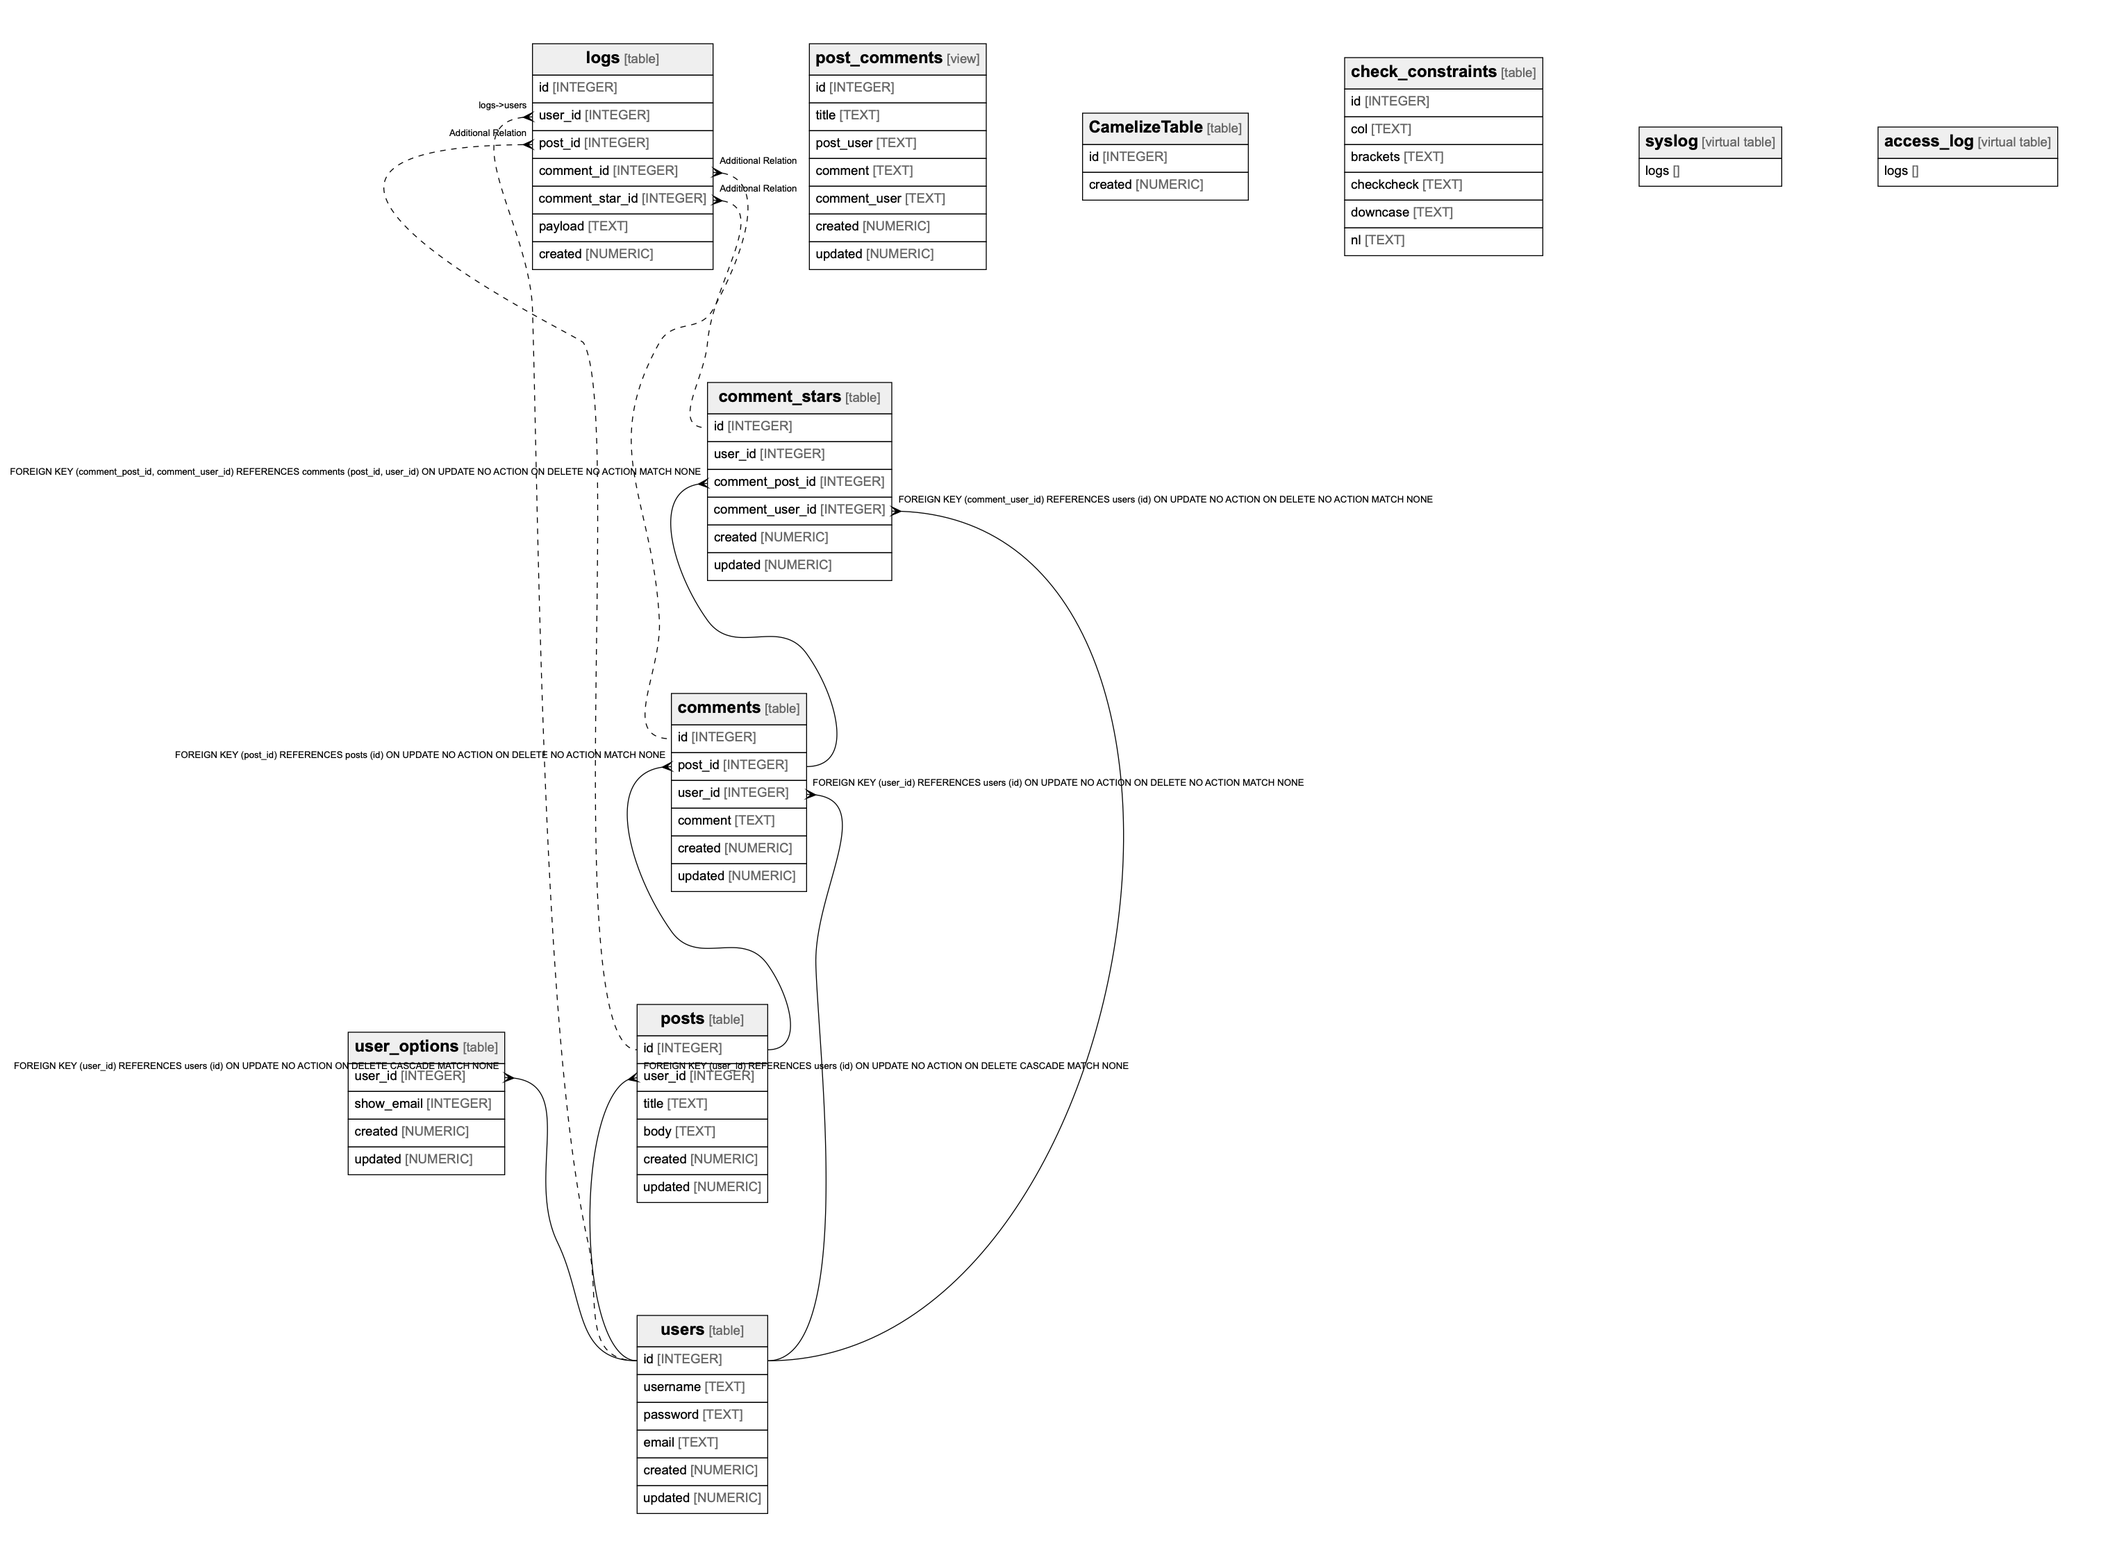
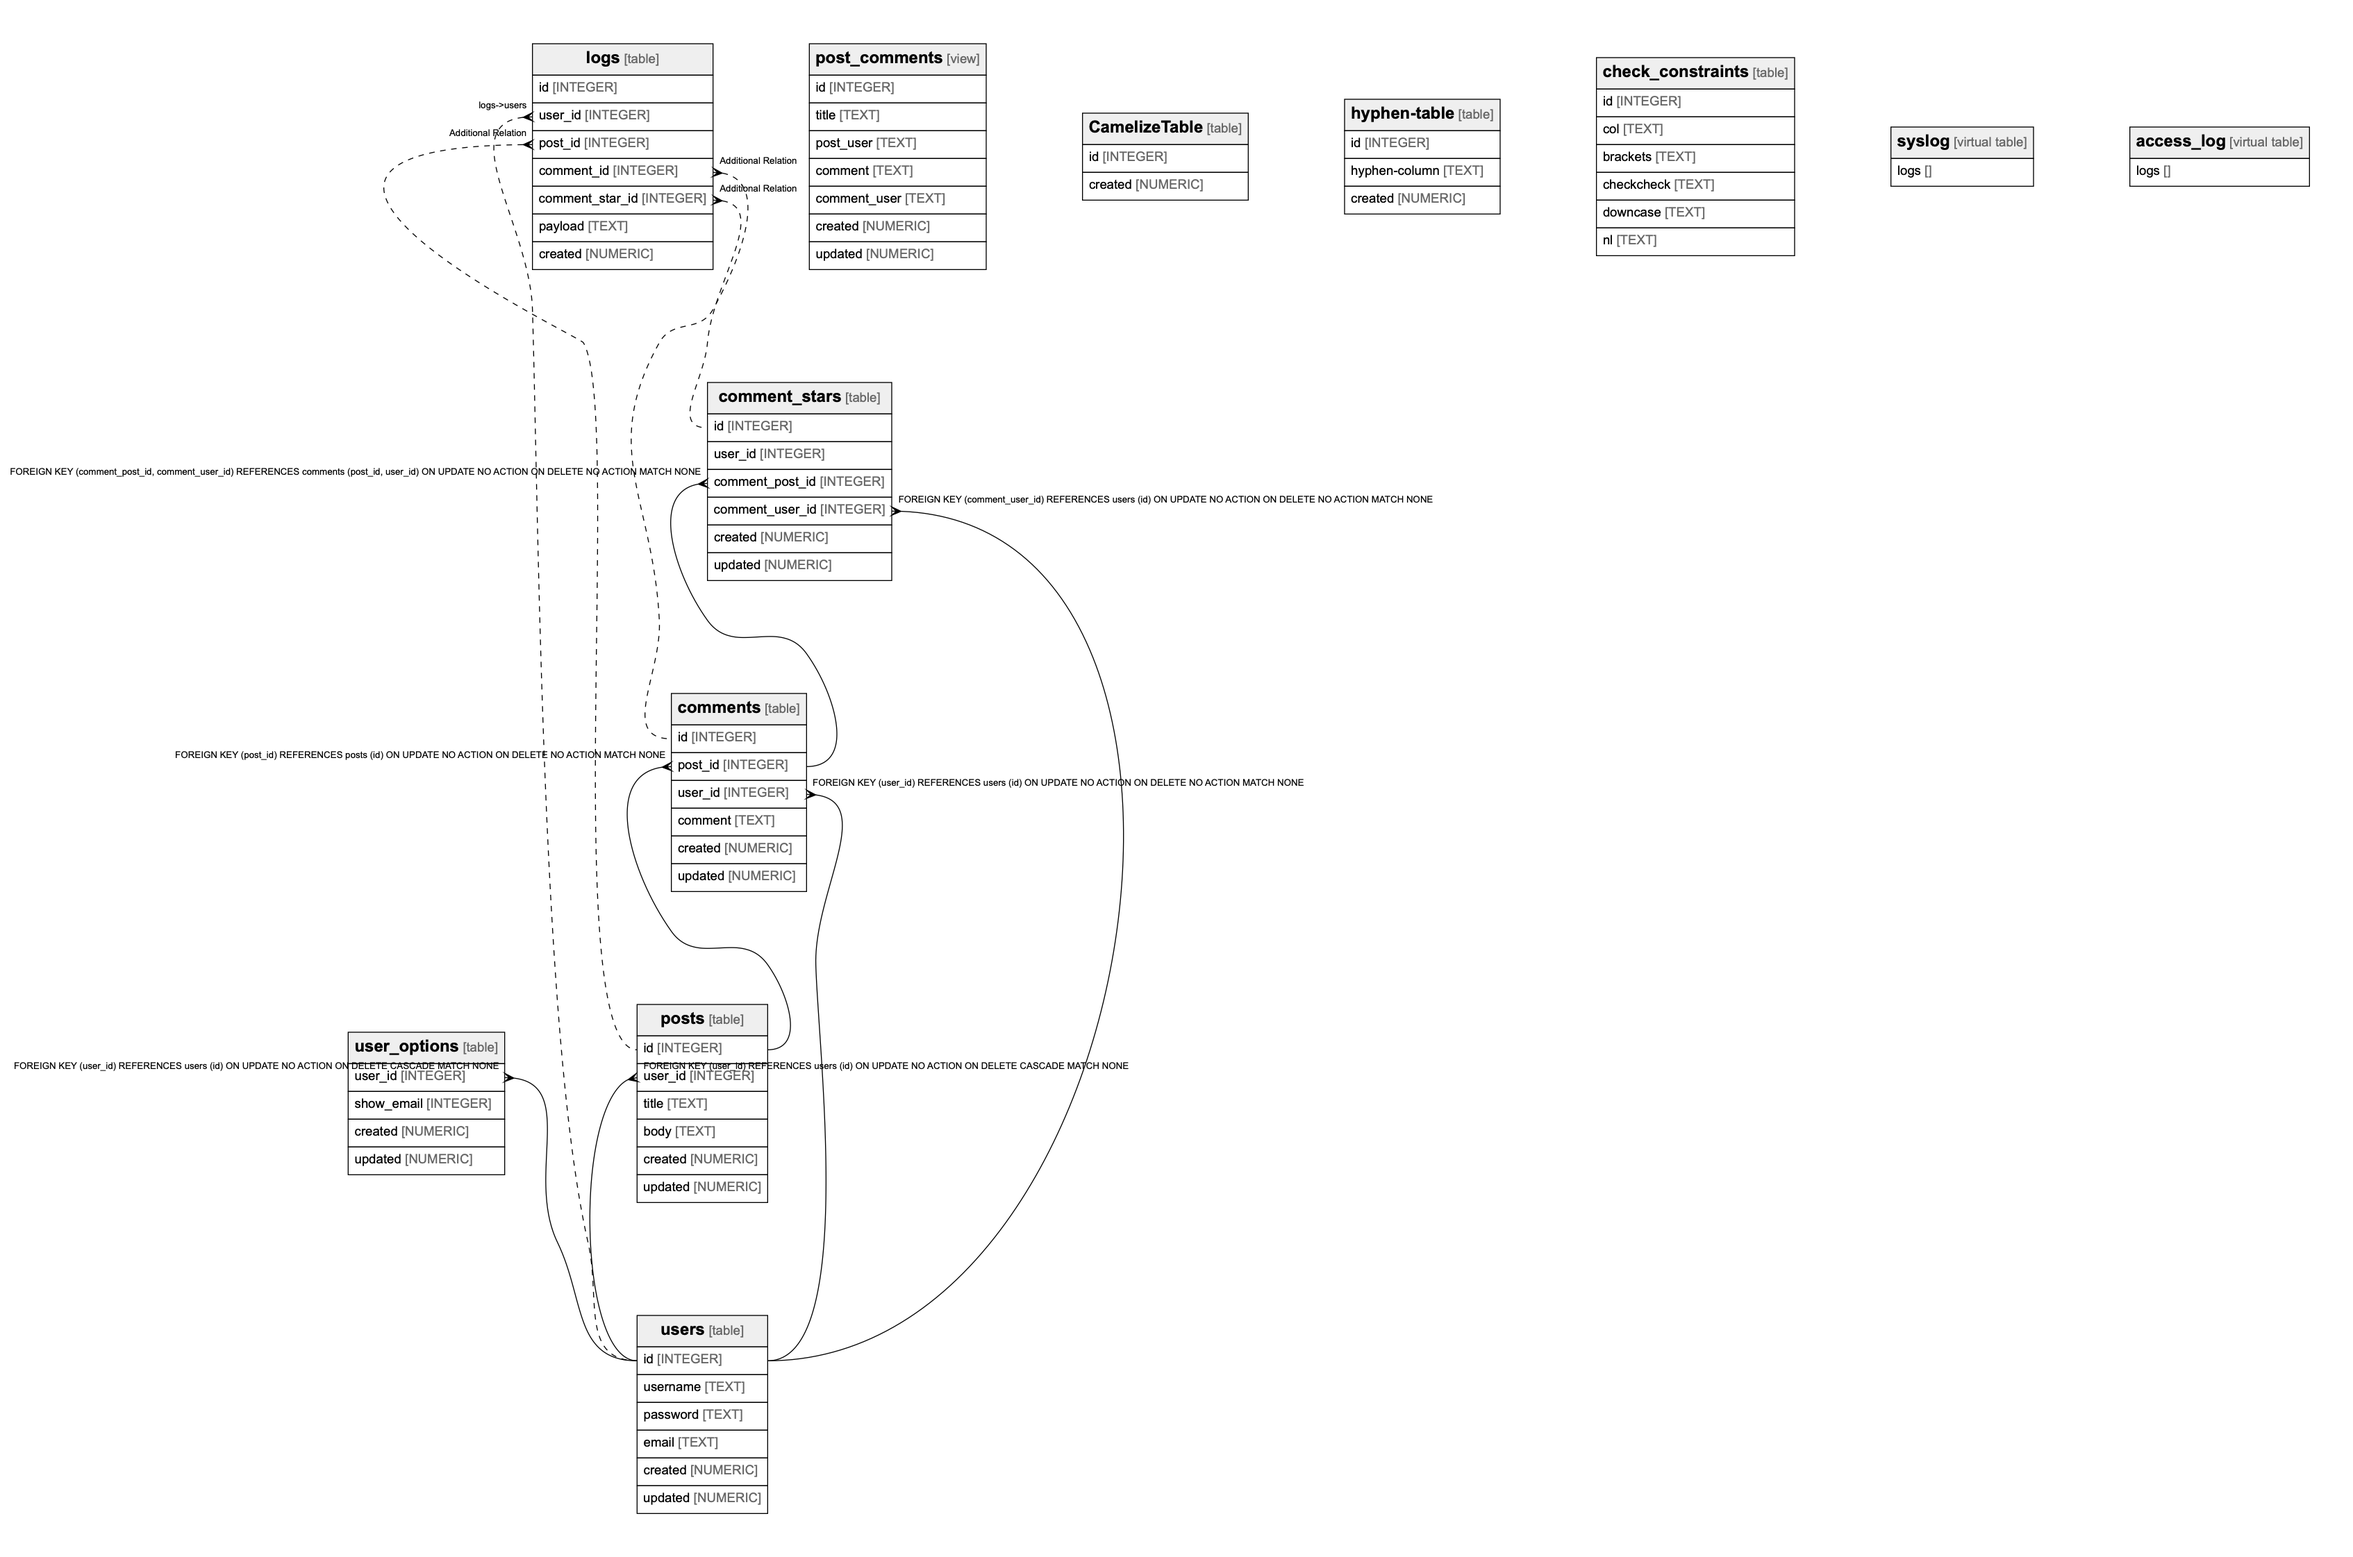
Fix sqlite driver and add sqlite test

diff --git a/drivers/sqlite/sqlite.go b/drivers/sqlite/sqlite.go
@@ -87,7 +87,7 @@ WHERE name != 'sqlite_sequence' AND (type = 'table' OR type = 'view');`)
 		constraints := []*schema.Constraint{}
 
 		// columns
-		columnRows, err := l.db.Query(fmt.Sprintf("PRAGMA table_info(%s)", tableName))
+		columnRows, err := l.db.Query(fmt.Sprintf("PRAGMA table_info(`%s`)", tableName))
 		defer columnRows.Close()
 		if err != nil {
 			return errors.WithStack(err)
@@ -132,7 +132,7 @@ WHERE name != 'sqlite_sequence' AND (type = 'table' OR type = 'view');`)
 		fkMap := map[string]*fk{}
 		fkSlice := []*fk{}
 
-		foreignKeyRows, err := l.db.Query(fmt.Sprintf("PRAGMA foreign_key_list(%s)", tableName))
+		foreignKeyRows, err := l.db.Query(fmt.Sprintf("PRAGMA foreign_key_list(`%s`)", tableName))
 		defer foreignKeyRows.Close()
 		if err != nil {
 			return errors.WithStack(err)
@@ -207,7 +207,7 @@ WHERE name != 'sqlite_sequence' AND (type = 'table' OR type = 'view');`)
 		}
 
 		// indexes and constraints(UNIQUE, PRIMARY KEY)
-		indexRows, err := l.db.Query(fmt.Sprintf("PRAGMA index_list(%s)", tableName))
+		indexRows, err := l.db.Query(fmt.Sprintf("PRAGMA index_list(`%s`)", tableName))
 		defer indexRows.Close()
 		if err != nil {
 			return errors.WithStack(err)

diff --git a/sample/sqlite/hyphen-table.md b/sample/sqlite/hyphen-table.md
@@ -1,0 +1,38 @@
+# hyphen-table
+
+## Description
+
+<details>
+<summary><strong>Table Definition</strong></summary>
+
+```sql
+CREATE TABLE 'hyphen-table' (
+  id INTEGER PRIMARY KEY AUTOINCREMENT,
+  'hyphen-column' TEXT NOT NULL,
+  created NUMERIC NOT NULL
+)
+```
+
+</details>
+
+## Columns
+
+| Name | Type | Default | Nullable | Children | Parents | Comment |
+| ---- | ---- | ------- | -------- | -------- | ------- | ------- |
+| id | INTEGER |  | true |  |  |  |
+| hyphen-column | TEXT |  | false |  |  |  |
+| created | NUMERIC |  | false |  |  |  |
+
+## Constraints
+
+| Name | Type | Definition |
+| ---- | ---- | ---------- |
+| id | PRIMARY KEY | PRIMARY KEY (id) |
+
+## Relations
+
+![er](hyphen-table.png)
+
+---
+
+> Generated by [tbls](https://github.com/k1LoW/tbls)

diff --git a/sample/sqlite/README.md b/sample/sqlite/README.md
@@ -12,6 +12,7 @@
 | [logs](logs.md) | 7 | audit log table | table |
 | [post_comments](post_comments.md) | 7 | post and comments View table | view |
 | [CamelizeTable](CamelizeTable.md) | 2 |  | table |
+| [hyphen-table](hyphen-table.md) | 3 |  | table |
 | [check_constraints](check_constraints.md) | 6 |  | table |
 | [syslog](syslog.md) | 1 |  | virtual table |
 | [access_log](access_log.md) | 1 |  | virtual table |
